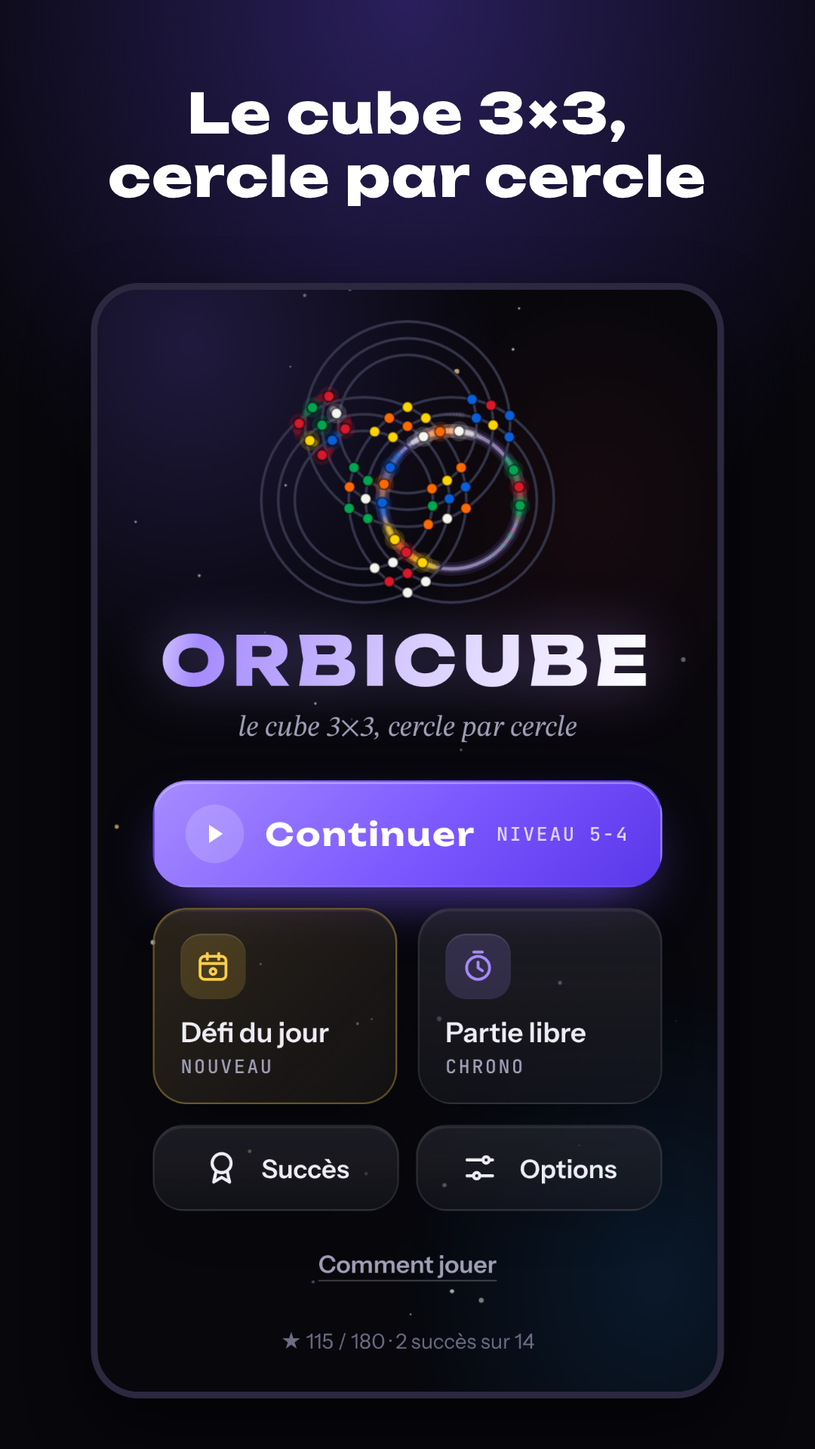
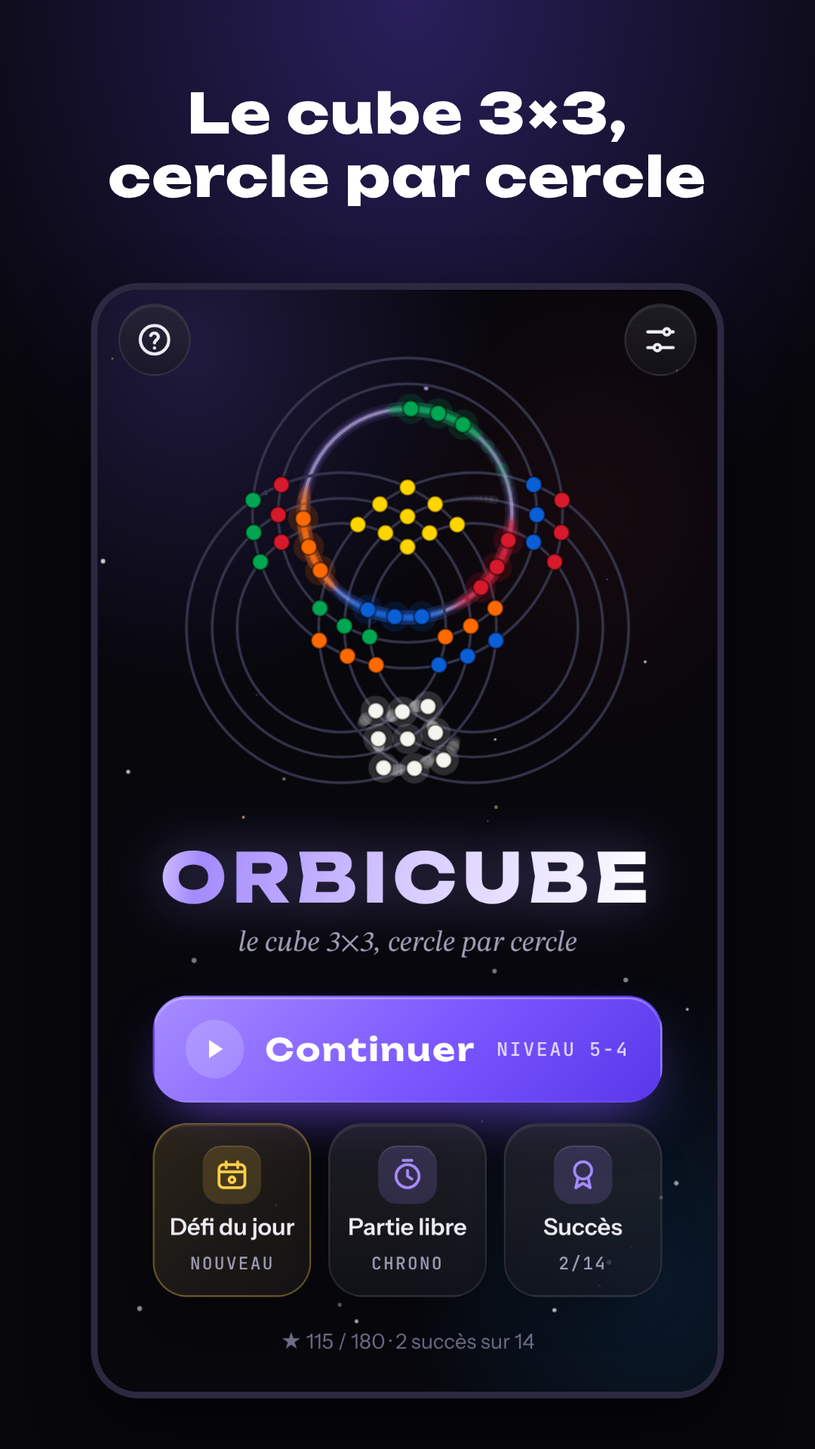
Chrono qui avance seul, étoiles de temps, accueil épuré
- Le chrono part au premier contact avec le plateau et avance tout seul (il ne se rafraîchissait
  que pendant une animation).
- Le temps s'affiche comme les coups : « 0:12 / 0:38 » et trois étoiles de temps (bleues), sur
  l'objectif (par × 4 s + 6 s). Fenêtre de victoire, tuiles de niveaux et campagne montrent les deux.
- Récompenses distinctes : Pastel avec 45 étoiles de coups, Néon avec 45 étoiles de temps.
- Accueil épuré : un bouton principal, trois tuiles (Défi, Libre, Succès), Options et Aide en icônes
  dans les coins, Jeu complet en pastille ; l'orbicube et le nom gagnent la place.

Claude-Session: https://claude.ai/code/session_0149xvqQAFsWoXJkF64USQEK

Changed region(s): [[0.1833, 0.2188, 0.825, 0.9062], [0.7944, 0.2188, 0.8556, 0.25], [0.1528, 0.2188, 0.2139, 0.25]]

diff --git a/orbicube/www/index.html b/orbicube/www/index.html
@@ -87,6 +87,7 @@ body{background:
 .puce svg{width:15px;height:15px}
 .etoile{fill:var(--or)}
 .etoile.eteinte{fill:#34324a}
+.etoile.temps{fill:#4cc9f0}
 
 #accueil .defile{display:flex;flex-direction:column;align-items:center;gap:10px;padding-top:12px}
 /* l'accueil descend un peu dans la zone de la barre d'accueil de l'iPhone (le client, le 11/10/2026) */
@@ -228,6 +229,7 @@ a.bouton{text-decoration:none;color:inherit}
 .segment{display:flex;background:#0e0e17;border:1px solid var(--trait);border-radius:12px;padding:3px;gap:2px;flex:none}
 .segment button{border:0;background:none;padding:7px 10px;border-radius:9px;font-size:13px;font-weight:600;color:var(--pale);cursor:pointer;min-height:34px}
 .segment.grille2{display:grid;grid-template-columns:1fr 1fr;width:100%}
+.segment button .cad.t{color:#4cc9f0}
 .segment button .cad{font-family:var(--f-chiffre);font-size:11px;color:var(--or);margin-left:6px}
 .segment button.verrou{opacity:.55}
 .segment button.on{background:var(--carte2);color:var(--encre);box-shadow:0 0 0 1px var(--trait-vif)}
@@ -274,6 +276,7 @@ a.bouton{text-decoration:none;color:inherit}
 @keyframes etoile{to{transform:scale(1);opacity:1}}
 .resume{display:flex;justify-content:center;gap:18px;margin:6px 0 16px}
 .resume div{font-size:11px;color:var(--pale);text-transform:uppercase;letter-spacing:.1em}
+.mini-et{display:flex;justify-content:center;gap:2px;margin-top:4px}.mini-et svg{width:14px;height:14px}
 .resume b{display:block;font-family:var(--f-chiffre);font-size:20px;color:var(--encre);letter-spacing:0}
 .nouveau{display:inline-block;background:var(--or-doux);color:var(--or);border-radius:99px;padding:3px 10px;font-size:12px;font-weight:700;margin-bottom:4px}
 #confettis{position:fixed;inset:0;pointer-events:none;z-index:30;width:100%;height:100%}
@@ -358,7 +361,23 @@ body.zen #jeu .jinfo .stat,body.zen #jeu .jetoiles{visibility:hidden}
 .lien{background:none;border:0;color:var(--pale);font-size:14px;font-weight:600;padding:10px;cursor:pointer;text-decoration:underline;text-decoration-color:rgba(255,255,255,.2);text-underline-offset:4px}
 /* titres de partie : la date du défi commence par une majuscule */
 .jtitre span::first-letter{text-transform:uppercase}
+.jetoiles.d{justify-content:flex-end}
+#jeu .stat b{white-space:nowrap;font-size:19px}#jeu .stat b small{font-size:12px}
 .jrecord{display:block;margin-top:10px;font-family:var(--f-chiffre);font-size:11px;letter-spacing:.06em;color:var(--sourd);text-transform:none}
+
+/* ===== Accueil épuré (11/10/2026) : l'orbicube et le nom d'abord ; un bouton, trois tuiles, le reste en icônes ===== */
+.acc-haut{position:absolute;top:8px;left:12px;right:12px;display:flex;justify-content:space-between;z-index:2;pointer-events:none}
+.acc-haut .ico{pointer-events:auto;width:42px;height:42px;border-radius:50%}
+.trio{display:grid;grid-template-columns:repeat(3,minmax(0,1fr));gap:10px}
+.trio .bouton.bloc{align-items:center;text-align:center;justify-content:center;gap:6px;min-height:96px;padding:12px 6px}
+.trio .bouton.bloc>span:not(.droite){font-size:13.5px;line-height:1.15;hyphens:auto;-webkit-hyphens:auto}
+.trio .bouton.bloc .droite{margin:0;font-size:10px}
+.trio .pastille{width:34px;height:34px;border-radius:11px}
+.puce-or{justify-self:center;display:inline-flex;align-items:center;gap:8px;margin-top:2px;padding:8px 14px;border-radius:99px;cursor:pointer;
+  background:linear-gradient(135deg,rgba(255,207,74,.14),rgba(255,207,74,.04));border:1px solid rgba(255,207,74,.35);color:var(--encre);font-size:13.5px;font-weight:600}
+.puce-or svg{width:16px;height:16px;stroke:var(--or);fill:none;stroke-width:2;stroke-linejoin:round}
+.puce-or span:last-child{font-family:var(--f-chiffre);color:var(--or);font-size:12.5px}
+#accueil .menu{gap:12px}
 @media (prefers-reduced-motion:reduce){*,*::before,*::after{animation-duration:.01ms!important;transition-duration:.01ms!important}}
 </style>
 </head>
@@ -371,6 +390,10 @@ body.zen #jeu .jinfo .stat,body.zen #jeu .jetoiles{visibility:hidden}
 <div id="app">
 
   <section class="ecran actif" id="accueil" aria-label="Accueil">
+    <div class="acc-haut">
+      <button class="ico" id="btnAide" type="button" aria-label="Comment jouer"><svg viewBox="0 0 24 24"><circle cx="12" cy="12" r="9"/><path d="M9.6 9.3a2.5 2.5 0 0 1 4.8.9c0 1.7-2.4 2.2-2.4 3.8"/><path d="M12 17.2v.1"/></svg></button>
+      <button class="ico" id="btnOptions" type="button" aria-label="Options"><svg viewBox="0 0 24 24"><path d="M4 7h10M18 7h2M4 17h4M12 17h8"/><circle cx="16" cy="7" r="2"/><circle cx="10" cy="17" r="2"/></svg></button>
+    </div>
     <div class="defile">
       <div class="logoboite"><canvas id="logo" aria-hidden="true"></canvas></div>
       <div style="display:grid;justify-items:center;gap:10px">
@@ -382,20 +405,18 @@ body.zen #jeu .jinfo .stat,body.zen #jeu .jetoiles{visibility:hidden}
           <button class="bouton principal" id="btnJouer" type="button">
             <svg viewBox="0 0 24 24"><path d="M7 4l12 8-12 8z" fill="currentColor" stroke="none"/></svg>
             <span id="jouerTxt">Jouer</span><span class="droite" id="jouerSous"></span></button>
-          <div class="bento">
+          <div class="trio">
           <button class="bouton or bloc" id="btnJour" type="button">
             <i class="pastille"><svg viewBox="0 0 24 24"><rect x="3" y="5" width="18" height="16" rx="3"/><path d="M3 10h18M8 3v4M16 3v4"/><circle cx="12" cy="15.5" r="2"/></svg></i>
             <span>Défi du jour</span><span class="droite" id="jourSous"></span></button>
           <button class="bouton bloc" id="btnLibre" type="button">
             <i class="pastille"><svg viewBox="0 0 24 24"><circle cx="12" cy="13" r="8"/><path d="M12 9v4l3 2M9 2h6"/></svg></i>
             <span>Partie libre</span><span class="droite">chrono</span></button>
+          <button class="bouton bloc" id="btnSucces" type="button">
+            <i class="pastille"><svg viewBox="0 0 24 24"><circle cx="12" cy="9" r="6"/><path d="M8.5 14l-1.5 7 5-3 5 3-1.5-7"/></svg></i>
+            <span>Succès</span><span class="droite notrad" id="succesSous"></span></button>
           </div>
-          <div class="rangee2">
-            <button class="bouton" id="btnSucces" type="button"><svg viewBox="0 0 24 24"><circle cx="12" cy="9" r="6"/><path d="M8.5 14l-1.5 7 5-3 5 3-1.5-7"/></svg>Succès</button>
-            <button class="bouton" id="btnOptions" type="button"><svg viewBox="0 0 24 24"><path d="M4 7h10M18 7h2M4 17h4M12 17h8"/><circle cx="16" cy="7" r="2"/><circle cx="10" cy="17" r="2"/></svg>Options</button>
-          </div>
-          <button class="bouton or" id="btnBoutique" type="button" hidden><svg viewBox="0 0 24 24"><path d="M3 8l4 4 5-7 5 7 4-4-2 11H5z"/></svg><span>Jeu complet</span><span class="droite" id="prixAccueil"></span></button>
-          <button class="lien" id="btnAide" type="button">Comment jouer</button>
+          <button class="puce-or" id="btnBoutique" type="button" hidden><svg viewBox="0 0 24 24"><path d="M3 8l4 4 5-7 5 7 4-4-2 11H5z"/></svg><span>Jeu complet</span><span class="notrad" id="prixAccueil"></span></button>
         </div>
         <p class="pied" id="piedTxt"></p>
       </div>
@@ -406,7 +427,7 @@ body.zen #jeu .jinfo .stat,body.zen #jeu .jetoiles{visibility:hidden}
     <div class="tete">
       <button class="ico" data-retour="accueil" type="button" aria-label="Retour"><svg viewBox="0 0 24 24"><path d="M15 5l-7 7 7 7"/></svg></button>
       <h2>Campagne</h2>
-      <span class="puce"><svg viewBox="0 0 24 24" class="etoile"><path d="M12 2.5l2.9 6 6.6.9-4.8 4.6 1.2 6.5L12 17.4l-5.9 3.1 1.2-6.5L2.5 9.4l6.6-.9z"/></svg><span id="mondesEt">0</span></span>
+      <span class="puce"><svg viewBox="0 0 24 24" class="etoile"><path d="M12 2.5l2.9 6 6.6.9-4.8 4.6 1.2 6.5L12 17.4l-5.9 3.1 1.2-6.5L2.5 9.4l6.6-.9z"/></svg><span id="mondesEt">0</span><svg viewBox="0 0 24 24" class="etoile temps" style="margin-left:4px"><path d="M12 2.5l2.9 6 6.6.9-4.8 4.6 1.2 6.5L12 17.4l-5.9 3.1 1.2-6.5L2.5 9.4l6.6-.9z"/></svg><span id="mondesEtT" class="notrad">0</span></span>
     </div>
     <div class="defile"><div class="centre mondes cascade" id="listeMondes"></div></div>
   </section>
@@ -433,7 +454,7 @@ body.zen #jeu .jinfo .stat,body.zen #jeu .jetoiles{visibility:hidden}
     <div class="jinfo">
       <div class="stat">Coups<b id="jCoups">0</b><div class="jetoiles" id="jEt" aria-label="Étoiles possibles"></div></div>
       <div class="jcube"><canvas id="mini" aria-label="Cube en perspective"></canvas></div>
-      <div class="stat d">Temps<b id="jTemps">0:00</b><span class="jrecord" id="jRecord"></span></div>
+      <div class="stat d">Temps<b id="jTemps">0:00</b><div class="jetoiles d" id="jEtT" aria-label="Étoiles de temps"></div></div>
     </div>
     <div class="plateau" id="zonePlateau">
       <canvas id="plateau" aria-label="Plateau de cercles"></canvas>
@@ -471,7 +492,7 @@ body.zen #jeu .jinfo .stat,body.zen #jeu .jetoiles{visibility:hidden}
       <div class="groupe"><h4>Plateau</h4>
         <div class="ligne empile"><div class="lt"><b>Vitesse des rotations</b></div>
           <div class="segment" id="optVitesse"><button type="button" data-v="1.5">Lente</button><button type="button" data-v="1">Normale</button><button type="button" data-v="0.6">Rapide</button></div></div>
-        <div class="ligne empile"><div class="lt"><b>Couleurs</b><span>« Contraste » est lisible par les daltoniens. Pastel et Néon se gagnent avec les étoiles.</span></div>
+        <div class="ligne empile"><div class="lt"><b>Couleurs</b><span>« Contraste » est lisible par les daltoniens. Pastel se gagne avec les étoiles de coups, Néon avec celles de temps.</span></div>
           <div class="segment grille2" id="optPalette"><button type="button" data-v="classique">Classique</button><button type="button" data-v="contraste">Contraste</button><button type="button" data-v="pastel">Pastel</button><button type="button" data-v="neon">Néon</button></div></div>
         <div class="ligne"><div class="lt"><b>Cube en perspective</b><span>Au-dessus du plateau, il suit chaque tour.</span></div>
           <label class="interrupteur"><input type="checkbox" id="optCube" role="switch" aria-label="Cube en perspective"><i></i></label></div>
@@ -552,8 +573,9 @@ var PALETTES={classique:["#FF6A00","#D7192C","#FFD500","#F5F5F0","#00A651","#0B5
   pastel:["#FFB27A","#F28B9B","#FFE38A","#F4F1EA","#8FD9A8","#8DB8F2"],
   neon:["#FF7A00","#FF2E63","#F5F500","#E8FFFF","#00FF9C","#00C8FF"]};
 // apparences du cube : les deux premières sont ouvertes, les autres se gagnent avec les étoiles de la campagne
-var APPARENCES={classique:0,contraste:0,pastel:45,neon:90};
-function apparenceOuverte(v){return etoilesTotal()>=(APPARENCES[v]||0);}
+var APPARENCES={classique:0,contraste:0,pastel:45,neon:45},APP_TEMPS={neon:true};
+// Pastel se gagne avec les étoiles de coups, Néon avec les étoiles de temps
+function apparenceOuverte(v){return(APP_TEMPS[v]?etoilesChrono():etoilesTotal())>=(APPARENCES[v]||0);}
 var COUL=PALETTES.classique;
 function faceDe(n){return n[0]>0?0:n[0]<0?1:n[1]>0?2:n[1]<0?3:n[2]>0?4:5;}
 var S=[],CLE={};
@@ -782,6 +804,11 @@ var LIBRES=[{n:5,nom:"Facile"},{n:10,nom:"Moyen"},{n:15,nom:"Difficile"},{n:25,n
 function libreDef(n){var nm=LIBRES.filter(function(l){return l.n===n;})[0];return{mode:"libre",id:"libre-"+n,n:n,anneaux:TOUS,par:n,
   melange:genererMelange(Math.random,TOUS,n),titre:"Partie libre",sous:nm.nom};}
 function etoilesPour(coups,par,indice){var e=coups<=par?3:coups<=par*2+1?2:1;return indice?Math.min(2,e):e;}
+// Étoiles de temps, en miroir des étoiles de coups : l'objectif est de 4 s par coup du par, plus 6 s pour lire
+// le plateau ; trois étoiles sous l'objectif, deux sous le double, une au-delà. Elles ouvrent leurs propres récompenses.
+function objectifTemps(par){return(par*4+6)*1000;}
+function etoilesTempsPour(ms,par){var o=objectifTemps(par);return ms<=o?3:ms<=2*o?2:1;}
+function etoilesChrono(){var t=0;Object.keys(PROG.niveaux).forEach(function(k){t+=PROG.niveaux[k].chrono||0;});return t;}
 
 /* ========== 6. LA PROGRESSION (appareil, et compte si connecté) ========== */
 var CLE_LOCALE="orbicube-v1";
@@ -789,7 +816,7 @@ function progVide(){return{v:1,niveaux:{},tips:{},succes:{},stats:{tours:0,tranc
   options:{son:true,vib:true,vitesse:1,palette:"classique",cube:true,pave:false,horaire:true,langue:"auto",maj:0}};}
 function fusion(a,b){if(!b||typeof b!=="object")return a;var r=JSON.parse(JSON.stringify(a));if(b.achat)r.achat=true;
   Object.keys(b.niveaux||{}).forEach(function(k){var x=r.niveaux[k],y=b.niveaux[k];if(!x){r.niveaux[k]=y;return;}
-    r.niveaux[k]={etoiles:Math.max(x.etoiles||0,y.etoiles||0),coups:Math.min(x.coups||1e9,y.coups||1e9),temps:Math.min(x.temps||1e12,y.temps||1e12),sansIndice:!!(x.sansIndice||y.sansIndice)};});
+    r.niveaux[k]={etoiles:Math.max(x.etoiles||0,y.etoiles||0),chrono:Math.max(x.chrono||0,y.chrono||0),coups:Math.min(x.coups||1e9,y.coups||1e9),temps:Math.min(x.temps||1e12,y.temps||1e12),sansIndice:!!(x.sansIndice||y.sansIndice)};});
   ["tips","succes"].forEach(function(f){Object.keys(b[f]||{}).forEach(function(k){if(!r[f][k])r[f][k]=b[f][k];});});
   var sa=r.stats,sb=b.stats||{};["tours","tranches","resolus","indices"].forEach(function(f){sa[f]=Math.max(sa[f]||0,sb[f]||0);});
   Object.keys(sb.meilleur||{}).forEach(function(k){var x=sa.meilleur[k],y=sb.meilleur[k];sa.meilleur[k]=!x?y:{coups:Math.min(x.coups,y.coups),temps:Math.min(x.temps,y.temps)};});
@@ -853,18 +880,19 @@ function rafraichirAccueil(){var pn=prochainNiveau(),fait=Object.keys(PROG.nivea
   document.getElementById("jouerTxt").textContent=fait?"Continuer":"Jouer";
   document.getElementById("jouerSous").textContent=pn?"niveau "+(pn.w+1)+"-"+(pn.i+1):"★ "+etoilesTotal();
   var j=PROG.jours[cleJour()];document.getElementById("jourSous").textContent=j?"réussi · "+"★".repeat(j.etoiles||1):(PROG.serie>1&&estHier(PROG.dernierJour)?"série de "+PROG.serie:"nouveau");
-  document.getElementById("piedTxt").textContent="★ "+etoilesTotal()+" / "+NB_NIV*3+" · "+Object.keys(PROG.succes).length+" succès sur "+SUCCES.length;if(typeof majAchat==="function")majAchat();}
+  document.getElementById("succesSous").textContent=Object.keys(PROG.succes).length+"/"+SUCCES.length;document.getElementById("piedTxt").textContent="★ "+etoilesTotal()+" / "+NB_NIV*3+" · "+Object.keys(PROG.succes).length+" succès sur "+SUCCES.length;if(typeof majAchat==="function")majAchat();}
 
 /* ========== 10. CAMPAGNE ========== */
 var ET_PATH='<path d="M12 2.5l2.9 6 6.6.9-4.8 4.6 1.2 6.5L12 17.4l-5.9 3.1 1.2-6.5L2.5 9.4l6.6-.9z"/>';
-var SVG_ET='<svg viewBox="0 0 24 24" class="etoile">'+ET_PATH+'</svg>',SVG_ET_OFF='<svg viewBox="0 0 24 24" class="etoile eteinte">'+ET_PATH+'</svg>';
+var SVG_ET='<svg viewBox="0 0 24 24" class="etoile">'+ET_PATH+'</svg>',SVG_ET_OFF='<svg viewBox="0 0 24 24" class="etoile eteinte">'+ET_PATH+'</svg>',
+  SVG_ETT='<svg viewBox="0 0 24 24" class="etoile temps">'+ET_PATH+'</svg>';
 var CAD='<rect x="5" y="11" width="14" height="10" rx="2"/><path d="M8 11V8a4 4 0 0 1 8 0v3"/>';
 function complet(){return CFG.modele==="complet"||PROG.achat===true;}
 function mondePaye(w){return !complet()&&w>=CFG.mondesGratuits;}
 function mondeOuvert(w){return !mondePaye(w)&&(w===0||!!PROG.niveaux[w+"-"+MONDES[w-1].coups.length]);}
 function niveauOuvert(w,i){return mondeOuvert(w)&&(i===0||!!PROG.niveaux[(w+1)+"-"+i]);}
 function etoilesMonde(w){var t=0;for(var i=0;i<MONDES[w].coups.length;i++){var r=PROG.niveaux[(w+1)+"-"+(i+1)];if(r)t+=r.etoiles;}return t;}
-function rafraichirMondes(){document.getElementById("mondesEt").textContent=etoilesTotal()+"/"+NB_NIV*3;var l=document.getElementById("listeMondes");l.innerHTML="";
+function rafraichirMondes(){document.getElementById("mondesEt").textContent=etoilesTotal();document.getElementById("mondesEtT").textContent=etoilesChrono();var l=document.getElementById("listeMondes");l.innerHTML="";
   MONDES.forEach(function(M,w){var ouvert=mondeOuvert(w),et=etoilesMonde(w),max=M.coups.length*3,b=document.createElement("button");b.type="button";b.className="monde"+(ouvert?"":" verrou")+(mondePaye(w)?" paye":"");b.style.setProperty("--acc",ACCENTS[w]);
     b.innerHTML='<canvas></canvas><div><div class="num">Monde '+(w+1)+'</div><h3>'+M.nom+'</h3><p>'+(ouvert?M.desc:mondePaye(w)?"Inclus dans le jeu complet.":"Terminez le monde "+w+" pour l’ouvrir.")+'</p><div class="barre"><i style="width:'+(et/max*100)+'%"></i></div><div class="compte"><span>'+et+' / '+max+' ★</span><span>'+M.anneaux.join(" ")+'</span></div></div>'+(ouvert?"":'<svg class="cadenas" viewBox="0 0 24 24">'+CAD+'</svg>');
     b.addEventListener("click",function(){if(mondePaye(w)){sonClic();ouvrirBoutique("monde");return;}if(!ouvert){vibrer(20);avertir("Verrouillé","Terminez d’abord le monde "+w+".");return;}sonClic();envol(b,w);});
@@ -881,7 +909,7 @@ function ouvrirMonde(w){var M=MONDES[w];accent(w);document.getElementById("nivTi
   M.coups.forEach(function(par,i){var r=PROG.niveaux[(w+1)+"-"+(i+1)],ouvert=niveauOuvert(w,i),b=document.createElement("button");b.type="button";
     b.className="niveau"+(r?" fait":"")+(ouvert?"":" verrou")+(pn&&pn.w===w&&pn.i===i?" courant":"");
     b.setAttribute("aria-label","Niveau "+(i+1)+(r?", "+r.etoiles+" étoiles":"")+(ouvert?"":", verrouillé"));
-    b.innerHTML=ouvert?'<b>'+(i+1)+'</b><span class="et">'+[0,1,2].map(function(k){return r&&r.etoiles>k?SVG_ET:SVG_ET_OFF;}).join("")+'</span><span class="par">par '+par+'</span>':'<svg viewBox="0 0 24 24" class="cad">'+CAD+'</svg>';
+    b.innerHTML=ouvert?'<b>'+(i+1)+'</b><span class="et">'+[0,1,2].map(function(k){return r&&r.etoiles>k?SVG_ET:SVG_ET_OFF;}).join("")+'</span><span class="et">'+[0,1,2].map(function(k){return r&&(r.chrono||0)>k?SVG_ETT:SVG_ET_OFF;}).join("")+'</span>':'<svg viewBox="0 0 24 24" class="cad">'+CAD+'</svg>';
     b.addEventListener("click",function(){if(!ouvert){vibrer(20);return;}sonClic();lancer(niveauDef(w,i));});g.appendChild(b);});
   montrer("niveaux");
   // aperçu du monde : ses cercles en trait plein, les autres en pointillé, le cube résolu
@@ -895,7 +923,13 @@ JeuP.onFace=function(n){if(!J||!J.pret||J.fini)return;bip(1047,.28,"sine",.07);b
 var mini=document.getElementById("mini"),miniC=mini.getContext("2d"),PIVOT=null,J=null;
 function dessinerMini(){if(!PROG.options.cube)return;var w=mini.clientWidth||84,px=Math.round(w*DPR);if(mini.width!==px){mini.width=px;mini.height=px;miniC.setTransform(DPR,0,0,DPR,0,0);}
   dessinerCube(miniC,w,JeuP.col,JeuP.anim,PIVOT);}
-JeuP.apres=function(){dessinerMini();if(J&&J.t0&&!J.fini&&!J.enPause)document.getElementById("jTemps").textContent=fmt(performance.now()-J.t0);};
+JeuP.apres=function(){dessinerMini();};
+// le chrono avance tout seul dès le premier contact avec le plateau, en miroir du compteur de coups
+function majTemps(){if(!J)return;var ms=J.t0?(J.fini?J.tFin:J.enPause?J.tPause-J.t0:performance.now()-J.t0):0,par=J.def.par,e=etoilesTempsPour(ms,par);
+  document.getElementById("jTemps").innerHTML='<span>'+fmt(ms)+'</span><small> / '+fmt(objectifTemps(par))+'</small>';
+  if(e!==J.eTPrec){var perdue=J.eTPrec&&e<J.eTPrec?e:-1;J.eTPrec=e;
+    document.getElementById("jEtT").innerHTML=[0,1,2].map(function(k){var s=k<e?SVG_ETT:SVG_ET_OFF;return k===perdue?s.replace('class="etoile','class="perd etoile'):s;}).join("");}}
+setInterval(function(){if(ECRAN==="jeu"&&J&&J.t0&&!J.fini&&!J.enPause)majTemps();},250);
 function fmt(ms){var s=Math.floor(ms/1000);return Math.floor(s/60)+":"+String(s%60).padStart(2,"0");}
 // Le plateau prend la largeur, moins une marge pour que les cercles ne frôlent pas les bords (le client, le 11/10/2026) ; le cube, au centre de la ligne des coups et du temps, prend la
 // hauteur qui reste (entre 64 et 150 px). Sur un écran court, il rapetisse avant que le plateau ne le fasse.
@@ -915,21 +949,20 @@ var ro=new ResizeObserver(function(){if(ECRAN==="jeu")redimJeu();if(ECRAN==="acc
 ro.observe(document.querySelector(".logoboite"));
 
 function lancer(def){accent(def.mode==="campagne"?def.w:null);
-  var rec=def.mode==="campagne"?PROG.niveaux[def.id]:def.mode==="jour"?PROG.jours[def.id]:PROG.stats.meilleur[def.n];
-  document.getElementById("jRecord").textContent=rec&&rec.temps?"record "+fmt(rec.temps):"";J={def:def,hist:[],t0:0,fini:false,indice:false,pret:false,tranches:{}};
+J={def:def,hist:[],t0:0,fini:false,indice:false,pret:false,tranches:{}};
   JeuP.col=resoluCol();JeuP.anim=null;JeuP.file=[];JeuP.indice=null;JeuP.survol=null;
   if(def.anneaux.length===9)JeuP.permis=null;else{JeuP.permis={};def.anneaux.forEach(function(b){JeuP.permis[MV[b][0]+","+MV[b][1]]=true;});}
   document.getElementById("jTitre").textContent=def.titre;document.getElementById("jSous").textContent=def.sous+" · par "+def.par;
-  document.getElementById("jTemps").textContent="0:00";document.getElementById("plateau").removeAttribute("data-indice");
-  construirePave();montrer("jeu");majJeu();cacherBulle(true);document.getElementById("melangeTxt").hidden=false;
+  document.getElementById("plateau").removeAttribute("data-indice");
+  construirePave();montrer("jeu");majJeu();majTemps();cacherBulle(true);document.getElementById("melangeTxt").hidden=false;
   var jeton=J,dur=(def.melange.length>10?90:def.melange.length>5?150:260)*PROG.options.vitesse;
   setTimeout(function(){if(J!==jeton)return;def.melange.forEach(function(mv,i){JeuP.jouer(mv,dur,function(){if(J!==jeton)return;if(i%2===0)bip(280+i*25,.04,"sine",.03);
     if(i===def.melange.length-1){J.pret=true;document.getElementById("melangeTxt").hidden=true;majJeu();tutoriel();}});});},400);}
 function recommencer(){if(!J||!J.pret)return;JeuP.file=[];JeuP.anim=null;JeuP.col=resoluCol();J.def.melange.forEach(function(mv){JeuP.col=appliquer(JeuP.col,mv);});
-  J.hist=[];J.t0=0;J.fini=false;JeuP.indice=null;document.getElementById("jTemps").textContent="0:00";majJeu();Ticker.reveiller();}
+  J.hist=[];J.t0=0;J.fini=false;J.eTPrec=0;JeuP.indice=null;majJeu();majTemps();Ticker.reveiller();}
 function jouerCoup(mv){if(!J||!J.pret||J.fini||JeuP.occupe()||!JeuP.permisA(cleA(mv)))return;
   JeuP.indice=null;sonTour(mv);vibrer(8);JeuP.jouer(mv,300*PROG.options.vitesse,function(ok){if(ok)apresCoup(mv);},"rebond");}
-function apresCoup(mv){J.hist.push(mv);if(!J.t0)J.t0=performance.now();PROG.stats.tours+=mv.d||1;if(mv.L===0){PROG.stats.tranches++;J.tranches[mv.a]=1;}
+function apresCoup(mv){J.hist.push(mv);if(!J.t0){J.t0=performance.now();}PROG.stats.tours+=mv.d||1;if(mv.L===0){PROG.stats.tranches++;J.tranches[mv.a]=1;}
   if(!document.getElementById("bulle").hidden&&document.getElementById("bulle").dataset.tip==="geste")cacherBulle();
   majJeu();if(estResolu(JeuP.col))victoire();else if(PROG.stats.tours%25===0)sauver();}
 function annuler(){if(!J||!J.pret||J.fini||JeuP.occupe()||!J.hist.length)return;var mv=J.hist.pop();sonTour(mv);JeuP.indice=null;
@@ -954,10 +987,11 @@ function cheminSolution(){var tout=J.def.melange.slice(),ch=[];J.hist.forEach(fu
 function indice(gratuit){if(!J||!J.pret||J.fini||JeuP.occupe())return;var ch=cheminSolution();if(!ch.length)return;JeuP.indice=ch[0];
   document.getElementById("plateau").setAttribute("data-indice",nomDe(ch[0]).replace("′","'"));
   if(!gratuit&&!J.indice){J.indice=true;PROG.stats.indices++;sauver();}majJeu();Ticker.reveiller();}
-function victoire(){J.fini=true;var temps=performance.now()-J.t0,n=J.hist.length,d=J.def,e=etoilesPour(n,d.par,J.indice),record=false,av;
+function victoire(){J.fini=true;var temps=performance.now()-J.t0,n=J.hist.length,d=J.def,e=etoilesPour(n,d.par,J.indice),eT=etoilesTempsPour(temps,d.par),record=false,av;J.tFin=temps;J.eT=eT;majTemps();
   PROG.stats.resolus++;
   if(d.mode==="campagne"){av=PROG.niveaux[d.id];record=!av||e>av.etoiles||n<av.coups;
-    PROG.niveaux[d.id]=av?{etoiles:Math.max(av.etoiles,e),coups:Math.min(av.coups,n),temps:Math.min(av.temps,temps),sansIndice:av.sansIndice||!J.indice}:{etoiles:e,coups:n,temps:temps,sansIndice:!J.indice};
+    record=record||eT>((av&&av.chrono)||0);
+    PROG.niveaux[d.id]=av?{etoiles:Math.max(av.etoiles,e),chrono:Math.max(av.chrono||0,eT),coups:Math.min(av.coups,n),temps:Math.min(av.temps,temps),sansIndice:av.sansIndice||!J.indice}:{etoiles:e,chrono:eT,coups:n,temps:temps,sansIndice:!J.indice};
     if(n>=3&&temps<10000)PROG.tips.eclair=1;}
   else if(d.mode==="jour"){av=PROG.jours[d.id];record=!av;PROG.jours[d.id]=av?{coups:Math.min(av.coups,n),temps:Math.min(av.temps,temps),etoiles:Math.max(av.etoiles,e)}:{coups:n,temps:temps,etoiles:e};
     if(PROG.dernierJour!==d.id){PROG.serie=estHier(PROG.dernierJour)?PROG.serie+1:1;PROG.dernierJour=d.id;}PROG.serieMax=Math.max(PROG.serieMax||0,PROG.serie);}
@@ -976,7 +1010,8 @@ function fenetreVictoire(e,n,temps,record){var d=J.def,suiv=null;
   if(d.mode==="campagne"){if(d.i+1<MONDES[d.w].coups.length)suiv={w:d.w,i:d.i+1};else if(d.w+1<MONDES.length)suiv={w:d.w+1,i:0};}
   var titre=e===3?"Parfait":e===2?"Bien joué":"Résolu";
   var html='<div class="gros-et">'+[0,1,2].map(function(k){return k<e?SVG_ET:SVG_ET_OFF;}).join("")+'</div><h3>'+titre+'</h3>'+(record?'<span class="nouveau">Nouveau record</span>':"")+
-    '<div class="resume"><div>Coups<b>'+n+'</b></div><div>Par<b>'+d.par+'</b></div><div>Temps<b>'+fmt(temps)+'</b></div></div>'+
+    '<div class="resume"><div>Coups<b>'+n+' / '+d.par+'</b><i class="mini-et">'+[0,1,2].map(function(k){return k<e?SVG_ET:SVG_ET_OFF;}).join("")+'</i></div>'+
+    '<div>Temps<b>'+fmt(temps)+' / '+fmt(objectifTemps(d.par))+'</b><i class="mini-et">'+[0,1,2].map(function(k){return k<J.eT?SVG_ETT:SVG_ET_OFF;}).join("")+'</i></div></div>'+
     (e<3?'<p>'+(J.indice?"L’indice limite le niveau à deux étoiles.":"Trois étoiles en "+d.par+" coups ou moins.")+'</p>':"")+
     (d.mode==="jour"?'<p class="serie">Série : '+PROG.serie+' · record : '+Math.max(PROG.serieMax||0,PROG.serie)+'</p>':"")+'<div class="menu">';
   if(suiv)html+='<button class="bouton principal" data-a="suivant" type="button"><span>'+(suiv.w!==d.w?"Monde "+(suiv.w+1):"Niveau suivant")+'</span></button>';
@@ -993,7 +1028,7 @@ function revoir(e,n,temps){var jeton=J,col=resoluCol(),dur=300*PROG.options.vite
   J.hist.forEach(function(m){coups.push(m);if(m.d===2)coups.push(m);});
   setTimeout(function(){if(J!==jeton)return;coups.forEach(function(mv,i){JeuP.jouer({a:mv.a,L:mv.L,q:mv.q},dur,function(){if(J!==jeton)return;sonTour(mv);
     if(i===coups.length-1)setTimeout(function(){if(J!==jeton)return;J.revoit=false;fenetreVictoire(e,n,temps,false);},700);},"doux");});},450);}
-function pause(){if(!J||!document.getElementById("voile").hidden)return;var t=J.t0&&!J.fini?performance.now():0;J.enPause=true;
+function pause(){if(!J||!document.getElementById("voile").hidden)return;var t=J.t0&&!J.fini?performance.now():0;J.tPause=t;J.enPause=true;
   ouvrirFenetre('<h3>Pause</h3><p>'+J.def.titre+' · '+J.def.sous+'</p><div class="menu"><button class="bouton principal" data-a="reprendre" type="button"><span>Reprendre</span></button>'+
     '<button class="bouton" data-a="recommencer" type="button">Recommencer le niveau</button>'+
     (J.def.mode==="campagne"?'<button class="bouton" data-a="niveaux" type="button">Choisir un niveau</button>':"")+
@@ -1014,7 +1049,7 @@ document.getElementById("bulleOk").addEventListener("click",function(){sonClic()
 // Gestes sur le plateau : le doigt choisit le cercle qui suit son mouvement
 var cvJ=document.getElementById("plateau"),G=null;
 function pt(e){var r=cvJ.getBoundingClientRect();return[e.clientX-r.left,e.clientY-r.top];}
-cvJ.addEventListener("pointerdown",function(e){if(!J||!J.pret||J.fini||JeuP.occupe()||e.button===2)return;var p=pt(e),cand=JeuP.anneauxSous(p[0],p[1]);if(!cand.length)return;
+cvJ.addEventListener("pointerdown",function(e){if(!J||!J.pret||J.fini||JeuP.occupe()||e.button===2)return;if(!J.t0){J.t0=performance.now();majTemps();}var p=pt(e),cand=JeuP.anneauxSous(p[0],p[1]);if(!cand.length)return;
   e.preventDefault();try{cvJ.setPointerCapture(e.pointerId);}catch(er){}G={p0:p,cand:cand,choisi:null,der:0,cumul:0,trace:[],cran:false,net:0};JeuP.survol=cleA(cand[0]);audio();Ticker.reveiller();});
 cvJ.addEventListener("pointermove",function(e){var p=pt(e);
   if(!G){if(e.pointerType==="mouse"&&J&&J.pret&&!JeuP.occupe()){var c=JeuP.anneauxSous(p[0],p[1]),k=c.length?cleA(c[0]):null;if(k!==JeuP.survol){JeuP.survol=k;cvJ.style.cursor=k?"grab":"default";JeuP.dessiner();}}return;}
@@ -1133,7 +1168,7 @@ function appliquerOptions(){var o=PROG.options;COUL=(apparenceOuverte(o.palette)
   document.querySelectorAll("#optVitesse button").forEach(function(b){b.classList.toggle("on",+b.dataset.v===o.vitesse);});
   document.querySelectorAll("#optPalette button").forEach(function(b){var v=b.dataset.v,ouv=apparenceOuverte(v),c=b.querySelector(".cad");
     b.classList.toggle("on",COUL===PALETTES[v]);b.classList.toggle("verrou",!ouv);
-    if(!ouv&&!c){c=document.createElement("span");c.className="cad notrad";c.textContent="★ "+APPARENCES[v];b.appendChild(c);}else if(ouv&&c)c.remove();});
+    if(!ouv&&!c){c=document.createElement("span");c.className="cad notrad"+(APP_TEMPS[v]?" t":"");c.textContent="★ "+APPARENCES[v];b.appendChild(c);}else if(ouv&&c)c.remove();});
   mini.hidden=!o.cube;document.getElementById("pave").hidden=!o.pave;
   document.getElementById("btnPaveT").classList.toggle("on",o.pave);
   if(ECRAN==="jeu")requestAnimationFrame(redimJeu);Logo.dessiner();JeuP.dessiner();dessinerMini();}
@@ -1142,7 +1177,7 @@ function opt(k,v){PROG.options[k]=v;PROG.options.maj=Date.now();sauver();appliqu
   document.getElementById("opt"+c[0]).addEventListener("change",function(){opt(c[1],this.checked);if(c[1]==="son"&&this.checked)sonClic();if(c[1]==="vib")vibrer(15);});});
 document.getElementById("optVitesse").addEventListener("click",function(e){var b=e.target.closest("button");if(b){opt("vitesse",+b.dataset.v);sonClic();}});
 document.getElementById("optPalette").addEventListener("click",function(e){var b=e.target.closest("button");if(!b)return;
-  if(!apparenceOuverte(b.dataset.v)){vibrer(20);toast(b.dataset.v==="neon"?"Néon":"Pastel","Débloqué à "+APPARENCES[b.dataset.v]+" étoiles");return;}opt("palette",b.dataset.v);sonClic();});
+  if(!apparenceOuverte(b.dataset.v)){vibrer(20);toast(b.dataset.v==="neon"?"Néon":"Pastel",(APP_TEMPS[b.dataset.v]?"Débloqué à {0} étoiles de temps":"Débloqué à {0} étoiles de coups").replace("{0}",APPARENCES[b.dataset.v]));return;}opt("palette",b.dataset.v);sonClic();});
 document.getElementById("btnEffacer").addEventListener("click",function(){ouvrirFenetre('<h3>Tout effacer ?</h3><p>Étoiles, succès, records et série seront perdus. Les options sont gardées.</p><div class="menu"><button class="bouton" data-a="non" type="button" style="justify-content:center">Garder ma progression</button><button class="danger" data-a="oui" type="button">Effacer définitivement</button></div>',
   function(a){fermerFenetre();if(a==="oui"){var o=PROG.options;PROG=progVide();PROG.options=o;sauver();if(Distant.doc)envoyer();rafraichirAccueil();avertir("Progression","Tout a été effacé.");}},"non");});
 

diff --git a/orbicube/www/langues.js b/orbicube/www/langues.js
@@ -143,12 +143,14 @@
     ["Normale", "Normal", "Normaal", "Normal", "Normal"],
     ["Rapide", "Fast", "Snel", "Schnell", "Rápida"],
     ["Couleurs", "Colours", "Kleuren", "Farben", "Colores"],
-    ["« Contraste » est lisible par les daltoniens. Pastel et Néon se gagnent avec les étoiles.", "“Contrast” is colour-blind friendly. Pastel and Neon are earned with stars.", "„Contrast” is leesbaar voor kleurenblinden. Pastel en Neon verdien je met sterren.", "„Kontrast“ ist für Farbenblinde lesbar. Pastell und Neon verdienst du mit Sternen.", "«Contraste» es apta para daltónicos. Pastel y Neón se ganan con estrellas."],
+    ["« Contraste » est lisible par les daltoniens. Pastel se gagne avec les étoiles de coups, Néon avec celles de temps.", "“Contrast” is colour-blind friendly. Pastel is earned with move stars, Neon with time stars.", "„Contrast” is leesbaar voor kleurenblinden. Pastel verdien je met zettensterren, Neon met tijdsterren.", "„Kontrast“ ist für Farbenblinde lesbar. Pastell gibt es für Zug-Sterne, Neon für Zeit-Sterne.", "«Contraste» es apta para daltónicos. Pastel se gana con estrellas de movimientos, Neón con las de tiempo."],
     ["Pastel", "Pastel", "Pastel", "Pastell", "Pastel"],
     ["Mode zen", "Zen mode", "Zenmodus", "Zen-Modus", "Modo zen"],
     ["Ni chrono, ni compteur, ni étoiles pendant la partie.", "No timer, no move count, no stars while you play.", "Geen klok, geen teller, geen sterren tijdens het spel.", "Keine Uhr, kein Zähler, keine Sterne während des Spiels.", "Sin cronómetro, sin contador ni estrellas durante la partida."],
     ["Néon", "Neon", "Neon", "Neon", "Neón"],
-    ["Débloqué à {0} étoiles", "Unlocked at {0} stars", "Vrij vanaf {0} sterren", "Ab {0} Sternen freigeschaltet", "Se desbloquea con {0} estrellas"],
+    ["Débloqué à {0} étoiles de coups", "Unlocked at {0} move stars", "Vrij vanaf {0} zettensterren", "Ab {0} Zug-Sternen freigeschaltet", "Se desbloquea con {0} estrellas de movimientos"],
+    ["Débloqué à {0} étoiles de temps", "Unlocked at {0} time stars", "Vrij vanaf {0} tijdsterren", "Ab {0} Zeit-Sternen freigeschaltet", "Se desbloquea con {0} estrellas de tiempo"],
+    ["Étoiles de temps", "Time stars", "Tijdsterren", "Zeit-Sterne", "Estrellas de tiempo"],
     ["Revoir ma partie", "Watch my game", "Mijn spel terugkijken", "Mein Spiel ansehen", "Ver mi partida"],
     ["Série : {0} · record : {1}", "Streak: {0} · best: {1}", "Reeks: {0} · record: {1}", "Serie: {0} · Rekord: {1}", "Racha: {0} · récord: {1}"],
     ["· record {0}", "· best {0}", "· record {0}", "· Rekord {0}", "· récord {0}"],

diff --git a/orbicube/www/sw.js b/orbicube/www/sw.js
@@ -1,6 +1,6 @@
 // Version web (PWA) : tout le jeu est mis en cache pour se jouer hors ligne.
 // Incrémenter V à chaque publication, sinon les joueurs gardent l'ancienne version.
-var V = "orbicube-v21";
+var V = "orbicube-v22";
 var FICHIERS = ["./", "index.html", "config.js", "natif.js", "langues.js", "manifest.webmanifest", "confidentialite.html",
   "icones/favicon.png", "icones/apple-touch-icon.png", "icones/icon-192.png", "icones/icon-512.png", "icones/icon-maskable-512.png",
   "polices/polices.css", "polices/Unbounded-normal-700.woff2", "polices/Unbounded-normal-800.woff2",

diff --git a/CLAUDE.md b/CLAUDE.md
@@ -59,8 +59,11 @@ contresens). Un contrôle neuf s'éprouve de la même façon avant d'être cru.
 - **Seul le plateau se manipule, et seulement en glissant** (le client, le 11/10/2026) : un simple appui
   sur un cercle ne tourne rien (il ne tournait que dans un sens), et le cube en perspective est une
   image fixe qui suit les tours (`pointer-events:none`). Le parcours de test vérifie l'appui à vide.
-- **Apparences** (`APPARENCES`) : Classique et Contraste ouvertes, Pastel à 45 ★ et Néon à 90 ★ de
-  campagne ; une apparence choisie puis reperdue (progression effacée) retombe sur Classique.
+- **Deux sortes d'étoiles** (le client, le 11/10/2026) : de coups (`etoilesPour`) et de temps
+  (`etoilesTempsPour`, objectif `(par×4+6) s`, trois sous l'objectif, deux sous le double). Le chrono part
+  au premier contact avec le plateau et avance seul (`majTemps`, toutes les 250 ms).
+- **Apparences** (`APPARENCES`, `APP_TEMPS`) : Classique et Contraste ouvertes, Pastel à 45 ★ de coups,
+  Néon à 45 ★ de temps ; une apparence choisie puis reperdue (progression effacée) retombe sur Classique.
 - **Fin de niveau** : les six faces s'illuminent l'une après l'autre et le cube fait un tour sur
   lui-même (`PIVOT` n'est animé que là) ; « Revoir ma partie » rejoue le mélange puis les coups (`revoir()`).
 - **Couleur d'accent par monde** (`ACCENTS`, `accent(w)`) : variable CSS `--acc` (triplet r,g,b) et
